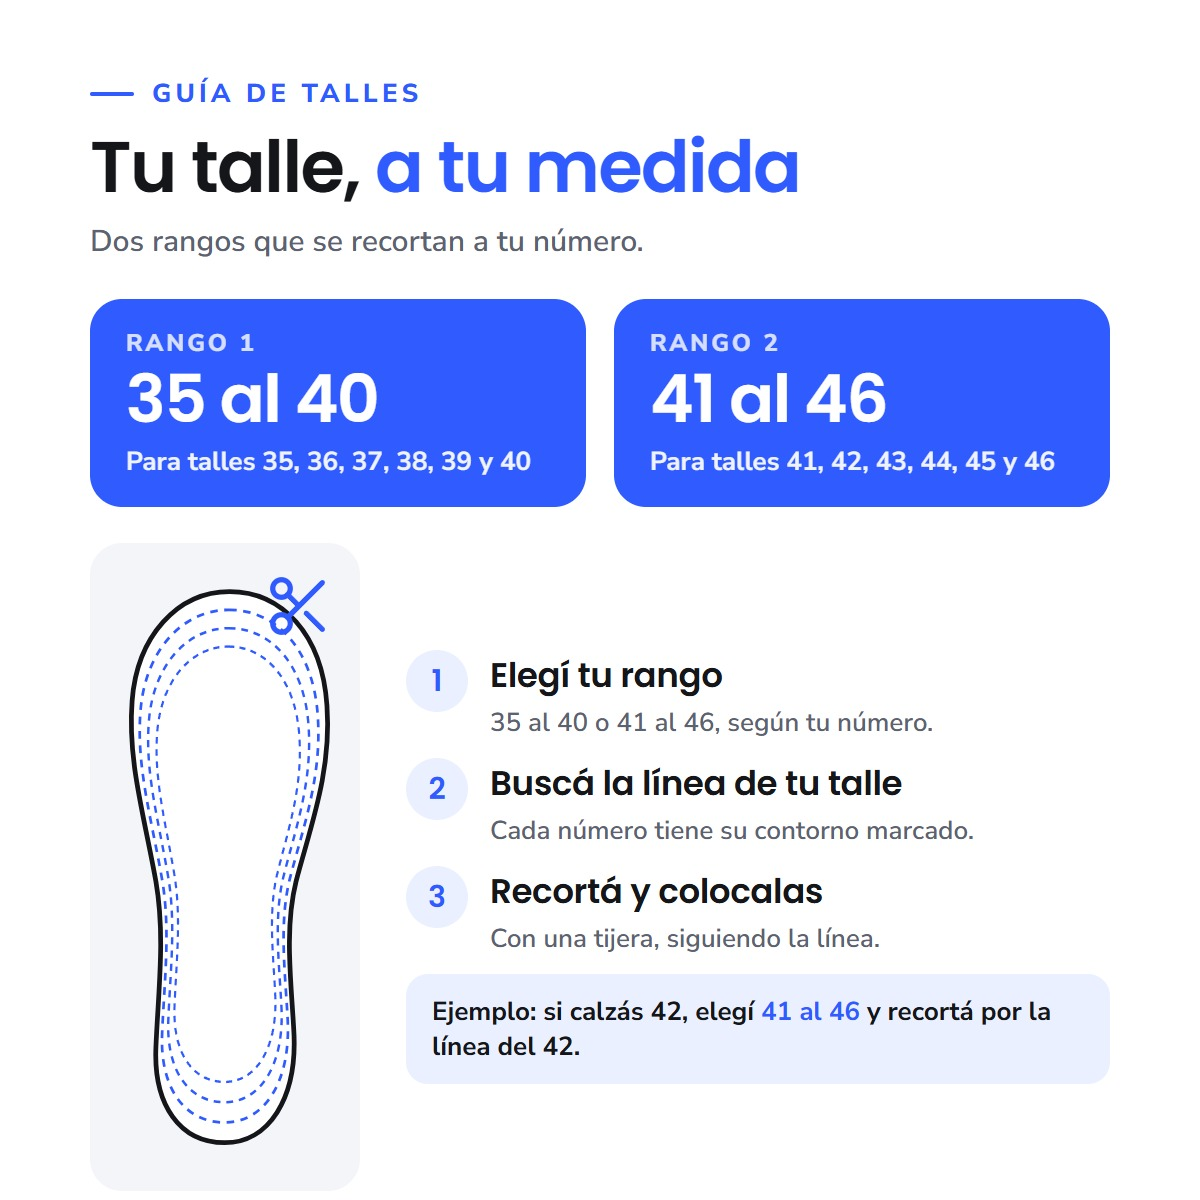
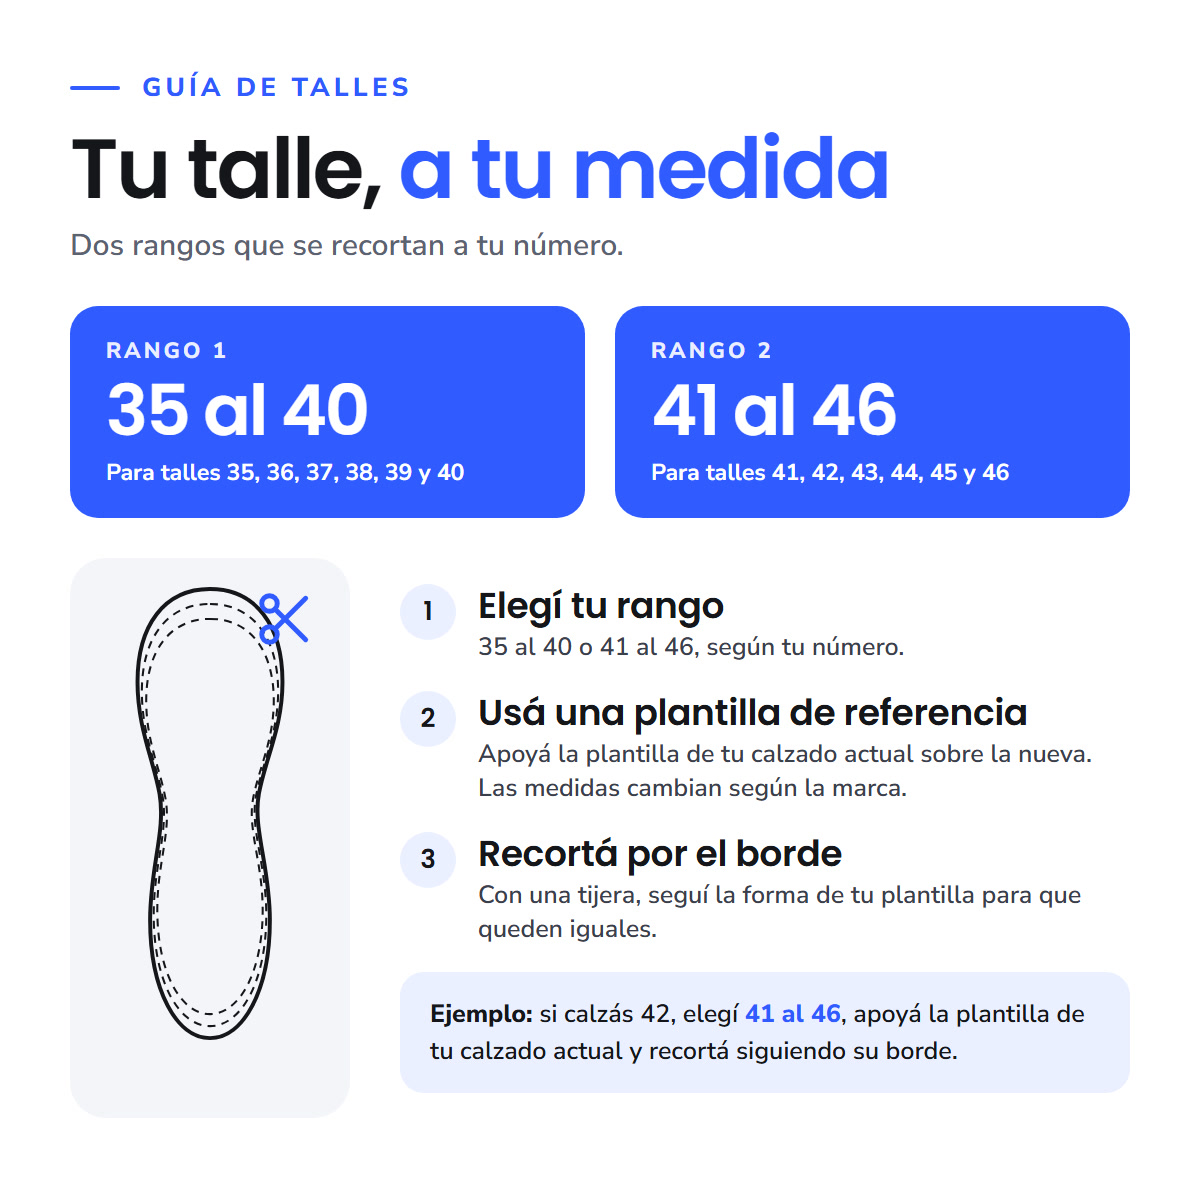
Insoles: size guide like Mercado Libre (cut using your current insole as template), clearer description, remove real-photos FAQ

diff --git a/CLAUDE.md b/CLAUDE.md
@@ -111,7 +111,7 @@ Hablar de **comodidad, apoyo y descanso**; no prometer resultados de salud ("ali
 
 Variantes: con más de una variante se muestra el selector (`[data-premium-variant-picker]`, radios `name="id"`). Si la opción se llama Color, cada variante es un círculo de color con el nombre en tooltip (hover/foco) y el nombre elegido junto a la etiqueta; el color sale del swatch de Shopify o, si no hay, de un mapa por nombre (`case variant_color_handle`: gris, azul-marino, negro, beige…; agregar ahí colores nuevos). Nombre desconocido = pill de texto. Al cambiar de variante, el JS muestra su imagen (evento `premium:show-image`), actualiza la etiqueta y `?variant=`. Imagen por variante: `variant.featured_media` en Shopify; si el producto tiene `nk_variant_images`, esa regla manda (cojín: azul → 02, resto → 01; tapones: blanco → 03, resto → 01).
 
-**Plantillas Nekova Confort** (título visible; handle `plantillas-multitalle`; no usar "Plantilla Nube": es marca de Tiendeca, competidor, content_key `plantillas`): dos opciones, **Color** (Negro / Gris / Naranja) y **Talle** (`35 al 40` / `41 al 46`, recortables). Con más de una opción, `nekova-product` muestra un selector por opción (`[data-nk-multi-picker]`: radios por opción + `input[name=id]` oculto; el JS busca la variante en el JSON `[data-nk-variants]` y desactiva el botón si la combinación no tiene stock); el hex de cada color sale de `snippets/nekova-color-hex.liquid` (mismo mapa que color-dot y el selector simple). Precios por cantidad: `nk_tiers` (`cantidad::etiqueta::precio unitario||…`, hoy 1 par 17.000, 2 pares 15.000 c/u, 3 o más 12.000 c/u) se muestra bajo el precio; "1 par" deja el selector y la cantidad de siempre, y desde "2 pares" aparece "armá tu pack" (`[data-nk-pack]`: una fila por par con su color y talle, "+ Sumar otro par" hasta 10, total con el precio del escalón y un solo `/cart/add.js` con todos los pares); el descuento real son dos descuentos automáticos de Shopify (monto fijo por artículo con mínimo de 2 y de 3 unidades, sin combinar). Devolución: sin usar ni recortar. Recorte: las líneas de talle no coinciden exacto con todas las marcas; los textos recomiendan usar de molde la plantilla original del calzado (ficha, guía de talles y FAQ). Imágenes (en este orden): `product-media-plantillas-00` (portada: negra, gris y naranja alineadas con el logo nekova en el talón y la base blanca acostada abajo), `-01` ("Elegí tu color": título y las tres plantillas con logo y su nombre), `-negro` / `-gris` / `-naranja` (una por color, con logo; el selector las muestra vía `nk_variant_images`), `-05` (rebote), `-06` (capas), `-07` (talón en U) y `-10` (guía de talles propia); video `assets/plantillas.mp4` (720×720, cuadrado: `nk_video_shape = 'square'`; del proveedor, con los textos en español en placas de Nekova y sin audio; póster `-poster`); `-11` es el render sin texto (fondo azul, no usarlo en la home: las tarjetas van sobre gris con fotos de fondo blanco; el carrusel de la home usa `-naranja`); traducidas de las del proveedor. La portada y `-01` se arman con `-negro/-gris/-naranja` (la plantilla de color ya está alineada en las tres), así quedan parejas. **Material propio (19/11/2026, solo negro y gris; la naranja todavía no se grabó, por eso siguen las imágenes de producto con los tres colores):** galería intercalada con `product-media-plantillas-real-01,-03..06`; "Así es de verdad" (`nk_real`, `plantillas-real-flex/-base/-paneo.mp4`; el texto de la bajada es `nk_real_lead` por producto), fotos "Hechas para tu día" (`-real-uso-03..05`), reels con música propia (`plantillas-reel-por-dentro/-flexibles.mp4`) y FAQ "¿Las fotos y los videos son reales?". Todo sale de `scripts/build-plantillas-propias.mjs` (con `SRC` = carpeta de los originales), que deja los reels de Instagram, fotos y textos en `marca/instagram/plantillas-propias/` (ver su `LEEME.md`); la música se genera con `scripts/lib/nekova-music.mjs`.
+**Plantillas Nekova Confort** (título visible; handle `plantillas-multitalle`; no usar "Plantilla Nube": es marca de Tiendeca, competidor, content_key `plantillas`): dos opciones, **Color** (Negro / Gris / Naranja) y **Talle** (`35 al 40` / `41 al 46`, recortables). Con más de una opción, `nekova-product` muestra un selector por opción (`[data-nk-multi-picker]`: radios por opción + `input[name=id]` oculto; el JS busca la variante en el JSON `[data-nk-variants]` y desactiva el botón si la combinación no tiene stock); el hex de cada color sale de `snippets/nekova-color-hex.liquid` (mismo mapa que color-dot y el selector simple). Precios por cantidad: `nk_tiers` (`cantidad::etiqueta::precio unitario||…`, hoy 1 par 17.000, 2 pares 15.000 c/u, 3 o más 12.000 c/u) se muestra bajo el precio; "1 par" deja el selector y la cantidad de siempre, y desde "2 pares" aparece "armá tu pack" (`[data-nk-pack]`: una fila por par con su color y talle, "+ Sumar otro par" hasta 10, total con el precio del escalón y un solo `/cart/add.js` con todos los pares); el descuento real son dos descuentos automáticos de Shopify (monto fijo por artículo con mínimo de 2 y de 3 unidades, sin combinar). Devolución: sin usar ni recortar. Recorte: las líneas de talle no coinciden exacto con todas las marcas; los textos recomiendan usar de molde la plantilla original del calzado (ficha, guía de talles y FAQ). Imágenes (en este orden): `product-media-plantillas-00` (portada: negra, gris y naranja alineadas con el logo nekova en el talón y la base blanca acostada abajo), `-01` ("Elegí tu color": título y las tres plantillas con logo y su nombre), `-negro` / `-gris` / `-naranja` (una por color, con logo; el selector las muestra vía `nk_variant_images`), `-05` (rebote), `-06` (capas), `-07` (talón en U) y `-10` (guía de talles propia, igual a la de Mercado Libre: rangos y recorte usando de molde la plantilla del calzado actual; se genera con `scripts/build-plantillas-guia-talles.mjs`); video `assets/plantillas.mp4` (720×720, cuadrado: `nk_video_shape = 'square'`; del proveedor, con los textos en español en placas de Nekova y sin audio; póster `-poster`); `-11` es el render sin texto (fondo azul, no usarlo en la home: las tarjetas van sobre gris con fotos de fondo blanco; el carrusel de la home usa `-naranja`); traducidas de las del proveedor. La portada y `-01` se arman con `-negro/-gris/-naranja` (la plantilla de color ya está alineada en las tres), así quedan parejas. **Material propio (19/11/2026, solo negro y gris; la naranja se grabará después, mientras tanto siguen las imágenes de producto con los tres colores; no decir en la tienda que falta material de la naranja):** galería intercalada con `product-media-plantillas-real-01,-03..06`; "Así es de verdad" (`nk_real`, `plantillas-real-flex/-base/-paneo.mp4`; el texto de la bajada es `nk_real_lead` por producto), fotos "Hechas para tu día" (`-real-uso-03..05`), reels con música propia (`plantillas-reel-por-dentro/-flexibles.mp4`). Todo sale de `scripts/build-plantillas-propias.mjs` (con `SRC` = carpeta de los originales), que deja los reels de Instagram, fotos y textos en `marca/instagram/plantillas-propias/` (ver su `LEEME.md`); la música se genera con `scripts/lib/nekova-music.mjs`.
 
 Imágenes de los tapones: `product-media-tapones-01..05.jpg` (01 es la foto del estuche con el texto "LOGO" del proveedor borrado; 06 es un recorte de 01 para la tarjeta del carrusel de la home, y 01 completa va en el bloque de la home) y `product-media-tapones-vida-01..03.jpg` (dormir, oficina, recital; recortes 3:2 de la infografía). No usar las imágenes del proveedor con las marcas "Quiet" o "Enjrokj". Reemplazar por fotos propias cuando esté el producto.
 
